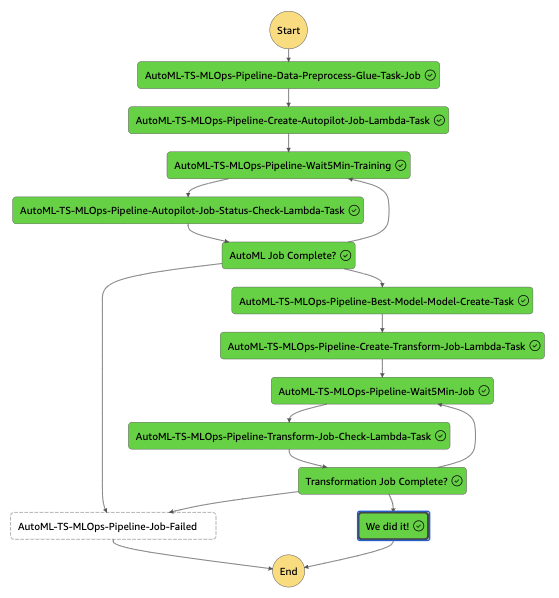
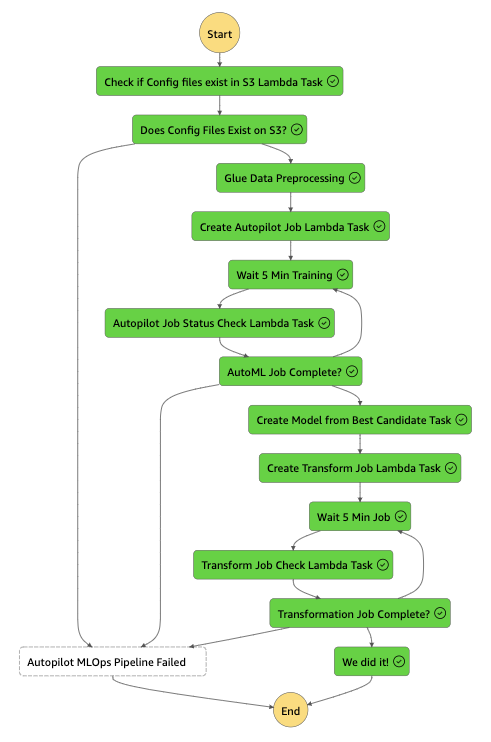
Updated documentation and minor improvements

diff --git a/lib/construct/state-machine.ts b/lib/construct/state-machine.ts
@@ -115,12 +115,12 @@ export class StateMachine extends Construct {
     
     // Waiting 5m before checking Autopilot Job Status
     const wait5minAfterTraining = new sfn.Wait(this, `Wait 5 Min Training`, {
-        time: sfn.WaitTime.duration(cdk.Duration.seconds(5))
+        time: sfn.WaitTime.duration(cdk.Duration.minutes(5))
     });
     
     // Waiting 5m before checking Autopilot Job Status
     const wait5minAfterJob = new sfn.Wait(this, `Wait 5 Min Job`, {
-        time: sfn.WaitTime.duration(cdk.Duration.seconds(5))
+        time: sfn.WaitTime.duration(cdk.Duration.minutes(5))
     });
     
     // Create a model from the Best trained model from AutoML
@@ -155,7 +155,7 @@ export class StateMachine extends Construct {
     });
     
     // Finish State Machine if job failed
-    const jobFailed = new sfn.Fail(this, `${baseConstructName}-Job-Failed`, {
+    const jobFailed = new sfn.Fail(this, `Autopilot MLOps Pipeline Failed`, {
       cause: 'Autopilot MLOps Pipeline Job Failed',
       error: 'Autopilot Train Job returned FAILED',
     });
@@ -176,7 +176,6 @@ export class StateMachine extends Construct {
                               .next(wait5minAfterTraining)
                               .next(checkAutopilotJobStatus.task)
                               .next(new sfn.Choice(this, 'AutoML Job Complete?')
-                                  // Look at the Autopilot Job Status field
                                   .when(sfn.Condition.stringEquals('$.AutoMLJobStatus', 'InProgress'), wait5minAfterTraining)
                                   .when(sfn.Condition.stringEquals('$.AutoMLJobStatus', 'Completed'), bestModel.createModelTask
                                     .next(createTransformJob.task)
@@ -201,7 +200,6 @@ export class StateMachine extends Construct {
         stateMachine: stateMachine,
         resourceBucket: resourceBucket,
         s3Prefix: 'raw/'
-        //s3Suffix: '.zip'
     });
   }
 }

diff --git a/lib/construct/glue.ts b/lib/construct/glue.ts
@@ -3,7 +3,6 @@ import * as iam from 'aws-cdk-lib/aws-iam';
 import * as s3 from 'aws-cdk-lib/aws-s3';
 import * as sfn from 'aws-cdk-lib/aws-stepfunctions';
 import * as sfn_tasks from 'aws-cdk-lib/aws-stepfunctions-tasks';
-//import * as fs from 'fs';
 
 import * as glue from "@aws-cdk/aws-glue-alpha";
 
@@ -28,10 +27,6 @@ export class GlueConstruct extends Construct {
         super(scope, id);
         
         const resourceBucketArn = props.resourceBucket.bucketArn;
-        
-        // const configRaw = fs.readFileSync('cdk-config/cdk-config.json', 'utf8');
-        // const config = JSON.parse(configRaw);
-        // const baseConstructName = config.baseConstructName
         
         // Define the policy statement allows Full Access to specified S3 bucket
         const s3BucketFullAccessPolicy = new iam.PolicyStatement({

diff --git a/lib/construct/sagemaker.ts b/lib/construct/sagemaker.ts
@@ -35,7 +35,6 @@ export class SageMakerConstruct extends Construct {
         // Create a Step Functions task for creating AI model from the Best model trained by SageMaker Autopilot
         this.createModelTask = new sfn_tasks.SageMakerCreateModel(this, `${props.taskName} Task`, {
           modelName: sfn.JsonPath.stringAt('$.BestCandidate.CandidateName'),
-        //   modelName: 'alukin-test-28102023-3',
           primaryContainer: new sfn_tasks.ContainerDefinition({
             image: sfn_tasks.DockerImage.fromJsonExpression(sfn.JsonPath.stringAt('$.BestCandidate.InferenceContainer.Image')),
             mode: sfn_tasks.Mode.SINGLE_MODEL,

diff --git a/lib/construct/trigger.ts b/lib/construct/trigger.ts
@@ -10,7 +10,6 @@ export interface TriggerConstructProps {
   stateMachine: sfn.StateMachine;
   resourceBucket: s3.Bucket;
   s3Prefix: string;
-  //s3Suffix: string;
 }
 
 export class TriggerConstruct extends Construct {
@@ -82,7 +81,6 @@ export class TriggerConstruct extends Construct {
             filters: [
                 {
                     prefix: props.s3Prefix
-                    //suffix: props.s3Suffix
                 }
             ]
         }

diff --git a/glue/preprocess.py b/glue/preprocess.py
@@ -14,7 +14,6 @@ s3 = boto3.client('s3')
 def download_and_extract(bucket, prefix, csv_dir):
     # List objects in the given bucket with the provided prefix
     s3_objects = s3.list_objects_v2(Bucket=bucket, Prefix=prefix)['Contents']
-    print(f"S3 objects to be checked: {s3_objects}")
     
     # Filter out possible filenames
     possible_filenames = ["data.zip", "tts.csv", "TTS.csv"]
@@ -27,7 +26,6 @@ def download_and_extract(bucket, prefix, csv_dir):
 
     # If none of the filenames matched, raise an error
     if not fileuri:
-        print(f"No matching file found in S3 bucket with prefix: {prefix}")
         exit()
 
     file_name = os.path.join('/tmp', os.path.basename(fileuri))
@@ -40,7 +38,6 @@ def download_and_extract(bucket, prefix, csv_dir):
         try:
             with zipfile.ZipFile(file_name, 'r') as zip_ref:
                 zip_ref.extractall(csv_dir)
-            print(f"ZIP to be processed as: {fileuri}")
             return "zip"
         except FileNotFoundError:
             print(f"{file_name} not found.")
@@ -50,7 +47,6 @@ def download_and_extract(bucket, prefix, csv_dir):
         destination = os.path.join(csv_dir, 'training_data.csv')
         os.makedirs(csv_dir, exist_ok=True)
         os.rename(source, destination)
-        print(f"CSV to be processed as: {destination}")
         return "csv"
     else:
         print(f"Unsupported file type for {file_name}")
@@ -79,14 +75,14 @@ def preprocess(csv_dir):
 
     # Scenario 2: TTS.csv is present along with one of RTS.csv OR metadata.csv
     elif tts_present and rts_present and not metadata_present:
-        final_data = pd.merge(tts_df, rts_df, how='right', on=['product_code', 'location_code', 'timestamp'])
+        final_data = pd.merge(tts_df, rts_df, how='right', on=['product_code', 'location_code', 'timestamp']) # Change the merge columns and type of Merge based on your dataset.
     elif tts_present and not rts_present and metadata_present:
-        final_data = pd.merge(tts_df, metadata_df, how='right', on=['product_code'])
+        final_data = pd.merge(tts_df, metadata_df, how='right', on=['product_code']) # Change the merge columns and type of Merge based on your dataset.
 
     # Scenario 3: All files are present
     elif tts_present and rts_present and metadata_present:
-        merged_data = pd.merge(tts_df, rts_df, how='right', on=['product_code', 'location_code', 'timestamp'])
-        final_data = pd.merge(merged_data, metadata_df, how='right', on=['product_code'])
+        merged_data = pd.merge(tts_df, rts_df, how='right', on=['product_code', 'location_code', 'timestamp']) # Change the merge columns and type of Merge based on your dataset.
+        final_data = pd.merge(merged_data, metadata_df, how='right', on=['product_code']) # Change the merge columns and type of Merge based on your dataset.
 
     # Error if no recognized pattern is present
     else:
@@ -102,7 +98,6 @@ def save_to_s3(bucket, csv_dir):
     single_csv = 'training_data.csv'
     object_key = os.path.join('input/', os.path.basename(single_csv))
     s3.upload_file(os.path.join(csv_dir, single_csv), bucket, object_key)
-    print(f"S3 file uploaded into: {object_key}")
 
 
 # Main Execution

diff --git a/lambda/create-transform-job/index.py b/lambda/create-transform-job/index.py
@@ -36,10 +36,8 @@ def handler(event, context):
     max_payload_mb = transform_job_config['MaxPayloadInMB']
     
     # Start the SageMaker Batch Transform Job
-    # testJobName = 'alukin-test-28102023-3'
     sm_response = sagemaker.create_transform_job(
         TransformJobName=transform_job_name, 
-        # TransformJobName=testJobName,
         ModelName=transform_model,
         TransformInput={
             'DataSource': {

diff --git a/lambda/create-autopilot-job/index.py b/lambda/create-autopilot-job/index.py
@@ -53,12 +53,6 @@ def handler(event, context):
         RoleArn=sagemaker_role,
         AutoMLProblemTypeConfig=automl_problem_config
     )
-    # response = {
-    #     "AutoMLJobResponse": {
-    #         "AutoMLJobArn": "arn:aws:sagemaker:eu-west-1:912713455521:automl-job/automl-job-20231027T160711"
-    #     }
-    # }
-    # job_name = 'automl-job-20231027T160711'
 
     return {
         'AutoMLJobResponse': response,

diff --git a/lambda/check-autopilot-job/index.py b/lambda/check-autopilot-job/index.py
@@ -28,7 +28,6 @@ def handler(event, context):
         best_candidate_info = {
             'CandidateName': best_candidate["CandidateName"],
             'InferenceContainer': inference_container
-            #'InferenceContainerDefinitions': inference_output
         }
     else:
         best_candidate_info = "No Best Candidate ready yet."

diff --git a/README.md b/README.md
@@ -35,13 +35,29 @@ This package contains a CDK implementation of a MLOps Pipeline for Amazon Autopi
 The pipeline consist of the following steps:
 
 ### Trigger the MLOps Pipeline
-Implemented in Lambda Function which is triggered by S3 Bucket when a new __.zip__ file is uploaded into __/raw__ in a S3 Bucket created by CDK. Lambda Function triggers the Step Function pipeline.
+Implemented in Lambda Function which is triggered by S3 Bucket when a new file is uploaded into __/raw__ in a S3 Bucket created by CDK. Lambda Function triggers the Step Function pipeline.
+
+### Config files Check
+Implemented in Lambda Function which is the first step of the StepFunctions pipeline, which checks the existence of both `automl_problem_config.json` and `batch_transform_job_config.json` config files in S3 `config/` folder. If they are not there, the pipeline fails.
+It is used as a pre-caution step to ensure you won't spend money on resources while other next steps in pipeline won't run without config files.
 
 ### Data Preprocessing
-Implemented in Glue Python Job. Performs data operations defined in python scripts. The script provided does merge of 3 input files (`TTS.csv`, `RTS.csv`, `metadata.csv`) into 1 input file which SageMaker Autopilot for Time Series expects. You can extend this script as per your needs.
+Implemented in Glue Python Job. Performs data operations defined in python scripts. It has implementation for scenarios when __.zip__ or __TTS.csv__ files uploaded.
+
+In case of  __.zip__ file upload, it expects to have at least `TTS.csv` and optionally `RTS.csv` and `metadata.csv`. The script provided does merge of these files (`TTS.csv`, `RTS.csv`, `metadata.csv`) into 1 input file which SageMaker Autopilot for Time Series expects. 
+Then merged file is saved as `input/training_data.csv` in the same S3 bucket.
+
+In case of __TTS.csv__ file upload, it doesn't do any transformations, but saves it as `input/training_data.csv` in the same S3 bucket.
+
 
 ### Autopilot Training Creation
 Implemented in Lambda Function. Creates Amazon SageMaker Autopilot Training job for Time Series data using a newest version of SageMaker API [CreateAutoMLJobV2](https://docs.aws.amazon.com/sagemaker/latest/APIReference/API_CreateAutoMLJobV2.html), as there no direct intergation from Step Functions for this API.
+
+It uses the configuration file from S3 `config/automl_problem_config.json`. 
+
+> **Warning**
+> Make sure you have it uploaded before! Otherwise the pipeline won't work properly!
+> Also, make sure you adjusted the config file based on your use-case and data structure! More about expected format see at [CreateAutoMLJobV2](https://docs.aws.amazon.com/sagemaker/latest/APIReference/API_CreateAutoMLJobV2.html#API_CreateAutoMLJobV2_RequestSyntax).
 
 ### Autopilot Job Check
 Implemented in Lambda Function with Step Functions loop process. Step Functions does a loop and each 5 minutes runs Lambda Function which checks the status of created Amazon SageMaker Autopilot Training job using a newest version of SageMaker API [DescribeAutoMLJobV2](https://docs.aws.amazon.com/sagemaker/latest/APIReference/API_DescribeAutoMLJobV2.html), as there no direct intergation from Step Functions for this API.
@@ -50,8 +66,13 @@ Implemented in Lambda Function with Step Functions loop process. Step Functions 
 Implemented as direct call of SageMaker APIs from Step Functions task to create an AI Model using the best performing trained model from SageMaker Autopilot Training.
 
 ### Batch Transform Job
-Implemented in Lambda Function. Using Dynamic Config file for Batch Transform Job, so it can be adjusted on the fly based on training data. Lambda Function calls SageMaker API [CreateTransformJob](https://docs.aws.amazon.com/sagemaker/latest/APIReference/API_CreateTransformJob.html) using config file provided in S3 bucket.
-Sample Config file is provided in __sample-data/batch_transform_job_config.json__ which you can re-use and adjust to your needs.
+Implemented in Lambda Function. Using Dynamic Config file for Batch Transform Job, so it can be adjusted on the fly based on training data. Lambda Function calls SageMaker API [CreateTransformJob](https://docs.aws.amazon.com/sagemaker/latest/APIReference/API_CreateTransformJob.html). use
+
+It uses config file provided in S3 bucket in `config/batch_transform_job_config.json`.
+
+> **Warning**
+> Make sure you have it uploaded before! Otherwise the pipeline won't work properly!
+> Also, make sure you adjusted the config file based on your use-case and data structure! More about expected format see at [CreateAutoMLJobV2](https://docs.aws.amazon.com/sagemaker/latest/APIReference/API_CreateAutoMLJobV2.html#API_CreateAutoMLJobV2_RequestSyntax).
 
 ### Batch Transform Job Check
 Implemented as a Lambda with Step Functions loop process. Step Function does a loop and each 5 minutes runs Lambda Function which checks the status of created Batch Transform Job from previous step. Lambda is used as there is no direct integration from Step Functions tasks with SageMaker API [DescribeTransformJob](https://docs.aws.amazon.com/sagemaker/latest/APIReference/API_DescribeTransformJob.html).
@@ -74,17 +95,19 @@ When you prepare your own dataset, be sure to match the directory structure of t
 ```bash
 data.zip
 │────TTS.csv # mandatory
-│────RTS.csv # mandatory
-│────metadata.csv # mandatory
+│────RTS.csv # optional
+│────metadata.csv # optional
 ```
 
 > Please note that the names of csv files should be `TTS.csv`, `RTS.csv`, `metadata.csv`.
 
 > Be aware, that if you are doing simple .zip of the folder on MacOS via Finder app, then it adds additional files into the .zip, so create this .zip file and then remove these files by commands in terminal like `zip -d data.zip __MACOSX .DS_Store`.
 
+Also, you can provide already merged dataset in a single `TTS.csv` file.
+
 ### AutoML Problem Configuration
 
-SageMaker Autopilot requires a Problem Configuration to be provided in a specific format. Problem Configuration must be problem specific and must be available in Resource Bucket __automl_problem_config.json__ before you initiate the MLOps Pipeline by uploading __data.zip__ into Resource Bucket in __raw/__ folder.
+SageMaker Autopilot requires a Problem Configuration to be provided in a specific format. Problem Configuration must be problem specific and must be available in Resource Bucket __automl_problem_config.json__ in `config/` folder before you initiate the MLOps Pipeline by uploading __data.zip__ into Resource Bucket in __raw/__ folder.
 
 As your data might be very different from provided synthetic data, the solution is prepared for being reused with different datasets. For that, you need to review/change the configuration file provided in __sample-data__ folder.
 
@@ -101,25 +124,26 @@ As your data might be very different from provided synthetic data, the solution 
 Finally, you are ready to launch the pipeline. After you deploy this pipeline,
 you will see an S3 bucket named `automl-ts-mlops-pipeline-resource-bucket-{YOUR-12DIGIT-AWS-ACCOUNT-ID}`. All you have to do now is to upload files prepared from the previous steps. 
 
-First - upload your `automl_problem_config.json` file the newly created S3 Bucket (Resource Bucket) with no prefix.
+First - upload your `automl_problem_config.json` file the newly created S3 Bucket (Resource Bucket) with `config/` prefix. You will find example of the file in `sample-data` folder in CDK project.
 
 ```bash
 aws s3 cp automl_problem_config.json s3://automl-ts-mlops-pipeline-resource-bucket-{YOUR-12DIGIT-AWS-ACCOUNT-ID}/config/
 ```
 
-Then - upload your `batch_transform_job_config.json` to the same S3 Bucket (Resource Bucket) with no prefix as well.
+Then - upload your `batch_transform_job_config.json` to the same S3 Bucket (Resource Bucket) with with `config/` prefix. You will find example of the file in `sample-data` folder in CDK project.
 
 ```bash
 aws s3 cp batch_transform_job_config.json s3://automl-ts-mlops-pipeline-resource-bucket-{YOUR-12DIGIT-AWS-ACCOUNT-ID}/config/
 ```
 
-Now, You have to upload your on data.zip file to __raw/__ directory in the same bucket.
+Now, You have to upload your on `data.zip` or your custom `TTS.csv` file to __raw/__ directory in the same bucket. You will find example of the file in `sample-data` folder in CDK project.
 
 ```bash
 aws s3 cp data.zip s3://automl-ts-mlops-pipeline-resource-bucket-{YOUR-12DIGIT-AWS-ACCOUNT-ID}/raw/
 ```
 
-> You should upload `data.zip` as the final step because `raw/*.zip` is registered as the upload trigger key of the pipeline. Therefore the pipeline will be triggered immediately after `raw/data.zip` is uploaded.
+> You should upload `data.zip` or `TTS.csv` as the final step because `raw/*` is registered as the upload trigger key of the pipeline. Therefore the pipeline will be triggered immediately after `raw/data.zip` is uploaded.
+> There is a first Config Check Lambda in StepFunctions pipeline which will check if you have both Config files uploaded in S3. Otherwise it will fail the pipeline at the very beginning.
 
 ![trigger](asset/trigger.png)
 
@@ -130,12 +154,12 @@ Navigate to the StepFunctions console to monitor the excecution. You will see th
 When the steps are completed, the __Resource Bucket__ will have the following structure:
 
 ```bash
-raw/                                # Where you uploaded the raw dataset
-input/                              # Where preprocessed csv file is stored
-autopilot-output/                   # Where experiment models artifacts created by SageMaker Autopilot are stored
-output-forecasted-data/             # Where final csv file with predictions using AIML model is stored
-automl_problem_config.json          # Sagemaker Autopilot Problem Configuration file 
-batch_transform_job_config.json     # Sagemaker Batch Transform Job Configuration file 
+raw/                                        # Where you uploaded the raw dataset
+input/                                      # Where preprocessed csv file is stored
+autopilot-output/                           # Where experiment models artifacts created by SageMaker Autopilot are stored
+output-forecasted-data/                     # Where final csv file with predictions using AIML model is stored
+config/automl_problem_config.json           # Sagemaker Autopilot Problem Configuration file 
+config/batch_transform_job_config.json      # Sagemaker Batch Transform Job Configuration file 
 ```
 
 
@@ -147,8 +171,20 @@ bin/                    # Entrypoint of the entire project
 lib/                    # CDK Constructs and Stacks are defined
 lambda/                 # Python scripts for Lambda Functions
 glue/                   # Python scripts for Glue Jobs
+cdk-config/             # ADVANCED: CDK config which can allow you to reuse same CDK for multiple MLOps pipelines
 ```
 
+## Advanced settings
+
+Provided CDK is made in a configurable flexible way, so you can deploy multiple pipelines into the same AWS Account in the same AWS Region. It is done using `cdk-config/cdk-config.json` file, where you must specify __baseResourceBucket__ and __baseConstructName__.
+
+These 2 variables then are used by AWS CDK, so you can change these 2 variables to deploy separate pipeline in the same AWS Account in the same AWS Region. So, as a result you can have multiple pipelines with separate S3 Buckets and completely separate resources for different use-cases.
+
+> **Warning**
+> This should be executed with __VERY__ carefully and __ONLY__ when you are aware of what you are doing and why.
+> Recommended is to use __Default__ settings and using single pipeline.
+> Running multiple pipelines migh face AWS Service Limits, so be sure you won't face these for your specific use-case.
+> You costs will be multiplied by how many pipelines you are executing, as each will have separate AWS Resources.
 
 ## 👀 Got Problems?
 
